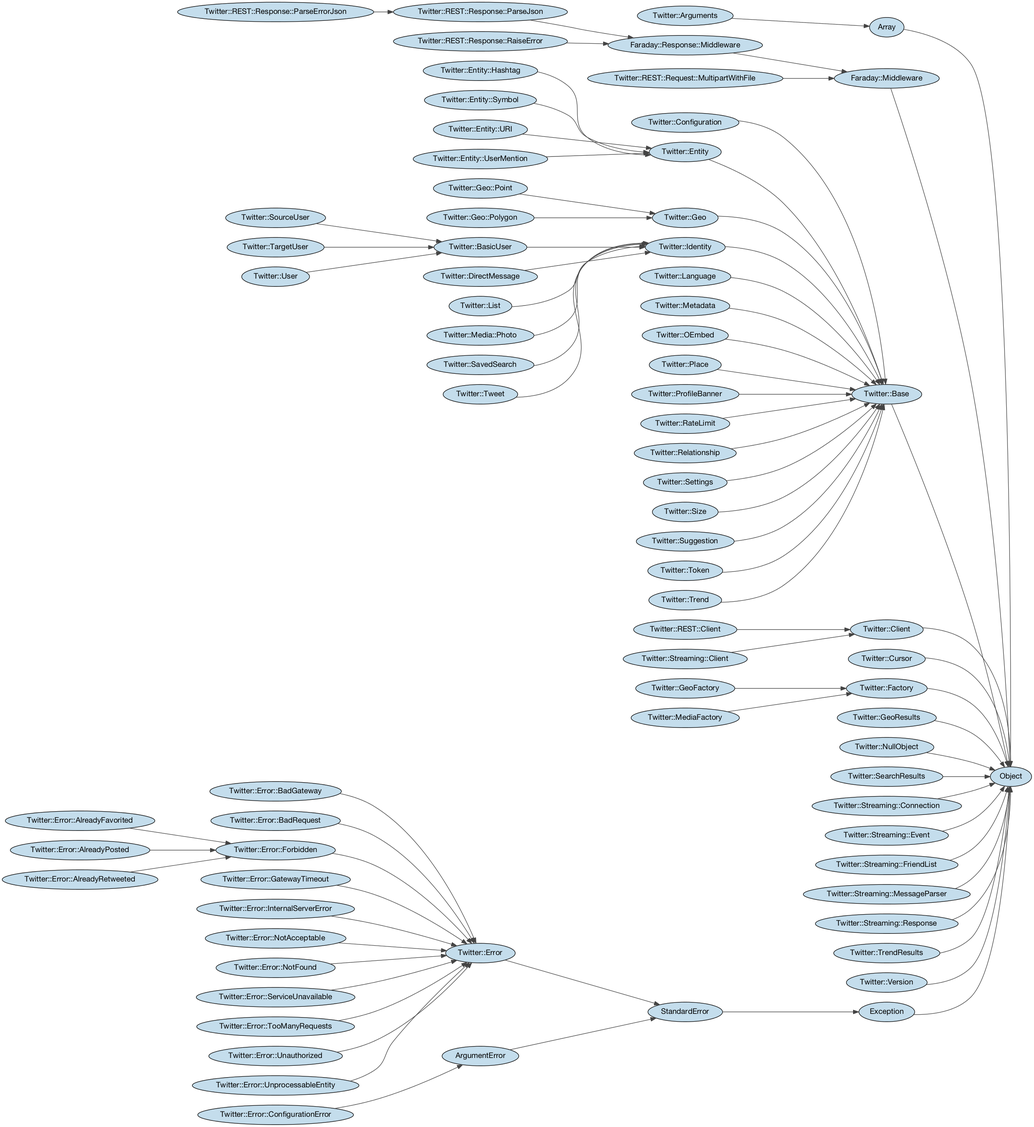
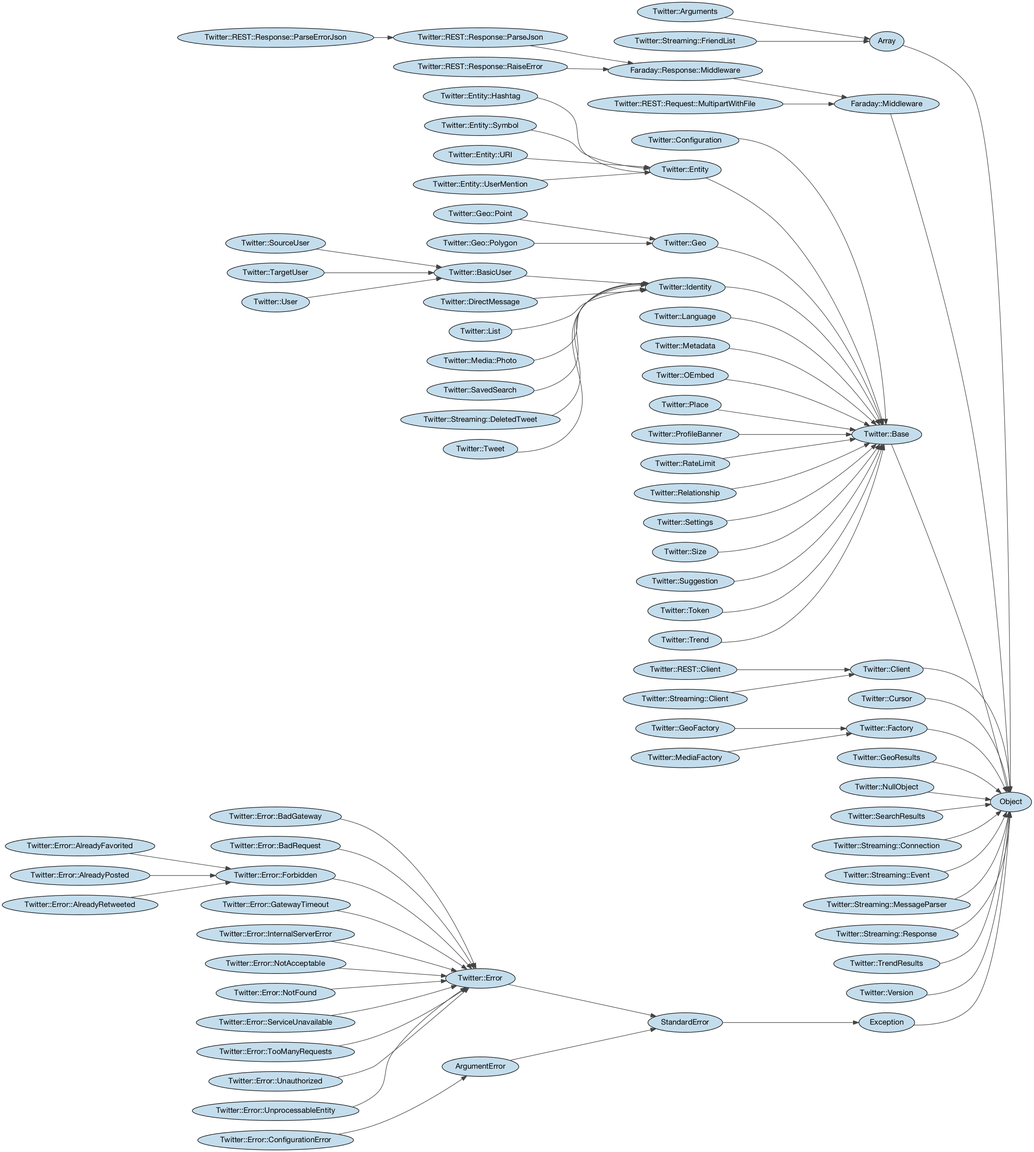
Create separate Twitter::Streaming::DeletedTweet object

diff --git a/spec/twitter/streaming/event_spec.rb b/spec/twitter/streaming/event_spec.rb
@@ -1,13 +1,14 @@
 require 'helper'
 
 describe Twitter::Streaming::Event do
+
   describe "#initialize" do
     before(:each) do
-      @data = {:event=>"follow", :source=>{:id=>10083602, :id_str=>"10083602", :name=>"Adam Bird", :screen_name=>"adambird", :location=>"Nottingham, UK", :url=>"http://t.co/M1eaIKDQyz", :description=>"CEO @onediaryapp, ex @esendex CTO and co-founder, still cycling", :protected=>false, :followers_count=>1295, :friends_count=>850, :listed_count=>53, :created_at=>"Fri Nov 09 00:35:12 +0000 2007", :favourites_count=>93, :utc_offset=>0, :time_zone=>"London", :geo_enabled=>true, :verified=>false, :statuses_count=>13507, :lang=>"en", :contributors_enabled=>false, :is_translator=>false, :profile_background_color=>"C0DEED", :profile_background_image_url=>"http://abs.twimg.com/images/themes/theme1/bg.png", :profile_background_image_url_https=>"https://abs.twimg.com/images/themes/theme1/bg.png", :profile_background_tile=>false, :profile_image_url=>"http://pbs.twimg.com/profile_images/378800000477232297/23d85bb78f71534eea1e1133fb771f86_normal.jpeg", :profile_image_url_https=>"https://pbs.twimg.com/profile_images/378800000477232297/23d85bb78f71534eea1e1133fb771f86_normal.jpeg", :profile_link_color=>"0084B4", :profile_sidebar_border_color=>"C0DEED", :profile_sidebar_fill_color=>"DDEEF6", :profile_text_color=>"333333", :profile_use_background_image=>true, :default_profile=>true, :default_profile_image=>false, :following=>false, :follow_request_sent=>false, :notifications=>false}, :target=>{:id=>1292911088, :id_str=>"1292911088", :name=>"One Diary Bot", :screen_name=>"onediarybot", :location=>nil, :url=>"http://t.co/etHGc0xHX4", :description=>"I'm the One Diary bot, here to help you with your life including personal cycling weather forecasts.", :protected=>false, :followers_count=>123, :friends_count=>157, :listed_count=>1, :created_at=>"Sat Mar 23 23:52:18 +0000 2013", :favourites_count=>0, :utc_offset=>nil, :time_zone=>nil, :geo_enabled=>false, :verified=>false, :statuses_count=>9637, :lang=>"en", :contributors_enabled=>false, :is_translator=>false, :profile_background_color=>"C0DEED", :profile_background_image_url=>"http://abs.twimg.com/images/themes/theme1/bg.png", :profile_background_image_url_https=>"https://abs.twimg.com/images/themes/theme1/bg.png", :profile_background_tile=>false, :profile_image_url=>"http://pbs.twimg.com/profile_images/3651575369/090551d8dd92080198f707769239ff43_normal.jpeg", :profile_image_url_https=>"https://pbs.twimg.com/profile_images/3651575369/090551d8dd92080198f707769239ff43_normal.jpeg", :profile_link_color=>"0084B4", :profile_sidebar_border_color=>"C0DEED", :profile_sidebar_fill_color=>"DDEEF6", :profile_text_color=>"333333", :profile_use_background_image=>true, :default_profile=>true, :default_profile_image=>false, :following=>false, :follow_request_sent=>false, :notifications=>false}, :created_at=>"Sun Oct 27 20:44:19 +0000 2013"}
+      @data = {:event => "follow", :source => {:id => 10083602, :id_str => "10083602", :name => "Adam Bird", :screen_name => "adambird", :location => "Nottingham, UK", :url => "http://t.co/M1eaIKDQyz", :description => "CEO @onediaryapp, ex @esendex CTO and co-founder, still cycling", :protected => false, :followers_count => 1295, :friends_count => 850, :listed_count => 53, :created_at => "Fri Nov 09 00:35:12 +0000 2007", :favourites_count => 93, :utc_offset => 0, :time_zone => "London", :geo_enabled => true, :verified => false, :statuses_count => 13507, :lang => "en", :contributors_enabled => false, :is_translator => false, :profile_background_color => "C0DEED", :profile_background_image_url => "http://abs.twimg.com/images/themes/theme1/bg.png", :profile_background_image_url_https => "https://abs.twimg.com/images/themes/theme1/bg.png", :profile_background_tile => false, :profile_image_url => "http://pbs.twimg.com/profile_images/378800000477232297/23d85bb78f71534eea1e1133fb771f86_normal.jpeg", :profile_image_url_https => "https://pbs.twimg.com/profile_images/378800000477232297/23d85bb78f71534eea1e1133fb771f86_normal.jpeg", :profile_link_color => "0084B4", :profile_sidebar_border_color => "C0DEED", :profile_sidebar_fill_color => "DDEEF6", :profile_text_color => "333333", :profile_use_background_image => true, :default_profile => true, :default_profile_image => false, :following => false, :follow_request_sent => false, :notifications => false}, :target => {:id => 1292911088, :id_str => "1292911088", :name => "One Diary Bot", :screen_name => "onediarybot", :location => nil, :url => "http://t.co/etHGc0xHX4", :description => "I'm the One Diary bot, here to help you with your life including personal cycling weather forecasts.", :protected => false, :followers_count => 123, :friends_count => 157, :listed_count => 1, :created_at => "Sat Mar 23 23:52:18 +0000 2013", :favourites_count => 0, :utc_offset => nil, :time_zone => nil, :geo_enabled => false, :verified => false, :statuses_count => 9637, :lang => "en", :contributors_enabled => false, :is_translator => false, :profile_background_color => "C0DEED", :profile_background_image_url => "http://abs.twimg.com/images/themes/theme1/bg.png", :profile_background_image_url_https => "https://abs.twimg.com/images/themes/theme1/bg.png", :profile_background_tile => false, :profile_image_url => "http://pbs.twimg.com/profile_images/3651575369/090551d8dd92080198f707769239ff43_normal.jpeg", :profile_image_url_https => "https://pbs.twimg.com/profile_images/3651575369/090551d8dd92080198f707769239ff43_normal.jpeg", :profile_link_color => "0084B4", :profile_sidebar_border_color => "C0DEED", :profile_sidebar_fill_color => "DDEEF6", :profile_text_color => "333333", :profile_use_background_image => true, :default_profile => true, :default_profile_image => false, :following => false, :follow_request_sent => false, :notifications => false}, :created_at => "Sun Oct 27 20:44:19 +0000 2013"}
     end
-
-    subject { Twitter::Streaming::Event.new(@data) }
-
+    subject do
+      Twitter::Streaming::Event.new(@data)
+    end
     it "should set the name to be a symbolised version of string string" do
       expect(subject.name).to eq(:follow)
     end
@@ -19,27 +20,24 @@ describe Twitter::Streaming::Event do
       expect(subject.target).to be_a(Twitter::User)
       expect(subject.target.id).to eq(1292911088)
     end
-
     context "when target object is a list" do
       before(:each) do
-        @data = {:event=>"list_member_added", :target_object=>{:full_name=>"@adambird/lists/dev", :user=>{:default_profile_image=>false, :profile_text_color=>"333333", :created_at=>"Fri Nov 09 00:35:12 +0000 2007", :is_translator=>false, :name=>"Adam Bird", :screen_name=>"adambird", :geo_enabled=>true, :follow_request_sent=>false, :profile_sidebar_border_color=>"C0DEED", :default_profile=>true, :id=>10083602, :contributors_enabled=>false, :followers_count=>1295, :lang=>"en", :profile_background_tile=>false, :url=>"http://about.me/adambird", :profile_sidebar_fill_color=>"DDEEF6", :listed_count=>53, :utc_offset=>0, :location=>"Nottingham, UK", :time_zone=>"London", :profile_background_color=>"C0DEED", :following=>false, :protected=>false, :description=>"CEO @onediaryapp, ex @esendex CTO and co-founder, still cycling", :profile_image_url_https=>"https://pbs.twimg.com/profile_images/378800000477232297/23d85bb78f71534eea1e1133fb771f86_normal.jpeg", :profile_background_image_url=>"http://abs.twimg.com/images/themes/theme1/bg.png", :profile_link_color=>"0084B4", :notifications=>false, :profile_background_image_url_https=>"https://abs.twimg.com/images/themes/theme1/bg.png", :favourites_count=>93, :id_str=>"10083602", :statuses_count=>13507, :verified=>false, :profile_image_url=>"http://pbs.twimg.com/profile_images/378800000477232297/23d85bb78f71534eea1e1133fb771f86_normal.jpeg", :profile_use_background_image=>true, :friends_count=>851}, :uri=>"/adambird/lists/dev", :subscriber_count=>0, :id_str=>"60314359", :created_at=>"Sun Dec 04 19:54:20 +0000 2011", :id=>60314359, :following=>false, :mode=>"public", :member_count=>13, :description=>"", :slug=>"dev", :name=>"dev"}, :source=>{:default_profile_image=>false, :profile_text_color=>"333333", :created_at=>"Fri Nov 09 00:35:12 +0000 2007", :is_translator=>false, :name=>"Adam Bird", :screen_name=>"adambird", :geo_enabled=>true, :follow_request_sent=>false, :profile_sidebar_border_color=>"C0DEED", :default_profile=>true, :id=>10083602, :contributors_enabled=>false, :followers_count=>1295, :lang=>"en", :profile_background_tile=>false, :url=>"http://about.me/adambird", :profile_sidebar_fill_color=>"DDEEF6", :listed_count=>53, :utc_offset=>0, :location=>"Nottingham, UK", :time_zone=>"London", :profile_background_color=>"C0DEED", :following=>false, :protected=>false, :description=>"CEO @onediaryapp, ex @esendex CTO and co-founder, still cycling", :profile_image_url_https=>"https://pbs.twimg.com/profile_images/378800000477232297/23d85bb78f71534eea1e1133fb771f86_normal.jpeg", :profile_background_image_url=>"http://abs.twimg.com/images/themes/theme1/bg.png", :profile_link_color=>"0084B4", :notifications=>false, :profile_background_image_url_https=>"https://abs.twimg.com/images/themes/theme1/bg.png", :favourites_count=>93, :id_str=>"10083602", :statuses_count=>13507, :verified=>false, :profile_image_url=>"http://pbs.twimg.com/profile_images/378800000477232297/23d85bb78f71534eea1e1133fb771f86_normal.jpeg", :profile_use_background_image=>true, :friends_count=>851}, :created_at=>"Sun Oct 27 20:54:51 +0000 2013", :target=>{:default_profile_image=>false, :profile_text_color=>"333333", :created_at=>"Sat Mar 23 23:52:18 +0000 2013", :is_translator=>false, :name=>"One Diary Bot", :screen_name=>"onediarybot", :geo_enabled=>false, :follow_request_sent=>false, :profile_sidebar_border_color=>"C0DEED", :default_profile=>true, :id=>1292911088, :contributors_enabled=>false, :followers_count=>124, :lang=>"en", :profile_background_tile=>false, :url=>"http://www.onediary.com", :profile_sidebar_fill_color=>"DDEEF6", :listed_count=>2, :utc_offset=>nil, :location=>nil, :time_zone=>nil, :profile_background_color=>"C0DEED", :following=>true, :protected=>false, :description=>"I'm the One Diary bot, here to help you with your life including personal cycling weather forecasts.", :profile_image_url_https=>"https://pbs.twimg.com/profile_images/3651575369/090551d8dd92080198f707769239ff43_normal.jpeg", :profile_background_image_url=>"http://abs.twimg.com/images/themes/theme1/bg.png", :profile_link_color=>"0084B4", :notifications=>false, :profile_background_image_url_https=>"https://abs.twimg.com/images/themes/theme1/bg.png", :favourites_count=>0, :id_str=>"1292911088", :statuses_count=>9637, :verified=>false, :profile_image_url=>"http://pbs.twimg.com/profile_images/3651575369/090551d8dd92080198f707769239ff43_normal.jpeg", :profile_use_background_image=>true, :friends_count=>157}}
+        @data = {:event => "list_member_added", :target_object => {:full_name => "@adambird/lists/dev", :user => {:default_profile_image => false, :profile_text_color => "333333", :created_at => "Fri Nov 09 00:35:12 +0000 2007", :is_translator => false, :name => "Adam Bird", :screen_name => "adambird", :geo_enabled => true, :follow_request_sent => false, :profile_sidebar_border_color => "C0DEED", :default_profile => true, :id => 10083602, :contributors_enabled => false, :followers_count => 1295, :lang => "en", :profile_background_tile => false, :url => "http://about.me/adambird", :profile_sidebar_fill_color => "DDEEF6", :listed_count => 53, :utc_offset => 0, :location => "Nottingham, UK", :time_zone => "London", :profile_background_color => "C0DEED", :following => false, :protected => false, :description => "CEO @onediaryapp, ex @esendex CTO and co-founder, still cycling", :profile_image_url_https => "https://pbs.twimg.com/profile_images/378800000477232297/23d85bb78f71534eea1e1133fb771f86_normal.jpeg", :profile_background_image_url => "http://abs.twimg.com/images/themes/theme1/bg.png", :profile_link_color => "0084B4", :notifications => false, :profile_background_image_url_https => "https://abs.twimg.com/images/themes/theme1/bg.png", :favourites_count => 93, :id_str => "10083602", :statuses_count => 13507, :verified => false, :profile_image_url => "http://pbs.twimg.com/profile_images/378800000477232297/23d85bb78f71534eea1e1133fb771f86_normal.jpeg", :profile_use_background_image => true, :friends_count => 851}, :uri => "/adambird/lists/dev", :subscriber_count => 0, :id_str => "60314359", :created_at => "Sun Dec 04 19:54:20 +0000 2011", :id => 60314359, :following => false, :mode => "public", :member_count => 13, :description => "", :slug => "dev", :name => "dev"}, :source => {:default_profile_image => false, :profile_text_color => "333333", :created_at => "Fri Nov 09 00:35:12 +0000 2007", :is_translator => false, :name => "Adam Bird", :screen_name => "adambird", :geo_enabled => true, :follow_request_sent => false, :profile_sidebar_border_color => "C0DEED", :default_profile => true, :id => 10083602, :contributors_enabled => false, :followers_count => 1295, :lang => "en", :profile_background_tile => false, :url => "http://about.me/adambird", :profile_sidebar_fill_color => "DDEEF6", :listed_count => 53, :utc_offset => 0, :location => "Nottingham, UK", :time_zone => "London", :profile_background_color => "C0DEED", :following => false, :protected => false, :description => "CEO @onediaryapp, ex @esendex CTO and co-founder, still cycling", :profile_image_url_https => "https://pbs.twimg.com/profile_images/378800000477232297/23d85bb78f71534eea1e1133fb771f86_normal.jpeg", :profile_background_image_url => "http://abs.twimg.com/images/themes/theme1/bg.png", :profile_link_color => "0084B4", :notifications => false, :profile_background_image_url_https => "https://abs.twimg.com/images/themes/theme1/bg.png", :favourites_count => 93, :id_str => "10083602", :statuses_count => 13507, :verified => false, :profile_image_url => "http://pbs.twimg.com/profile_images/378800000477232297/23d85bb78f71534eea1e1133fb771f86_normal.jpeg", :profile_use_background_image => true, :friends_count => 851}, :created_at => "Sun Oct 27 20:54:51 +0000 2013", :target => {:default_profile_image => false, :profile_text_color => "333333", :created_at => "Sat Mar 23 23:52:18 +0000 2013", :is_translator => false, :name => "One Diary Bot", :screen_name => "onediarybot", :geo_enabled => false, :follow_request_sent => false, :profile_sidebar_border_color => "C0DEED", :default_profile => true, :id => 1292911088, :contributors_enabled => false, :followers_count => 124, :lang => "en", :profile_background_tile => false, :url => "http://www.onediary.com", :profile_sidebar_fill_color => "DDEEF6", :listed_count => 2, :utc_offset => nil, :location => nil, :time_zone => nil, :profile_background_color => "C0DEED", :following => true, :protected => false, :description => "I'm the One Diary bot, here to help you with your life including personal cycling weather forecasts.", :profile_image_url_https => "https://pbs.twimg.com/profile_images/3651575369/090551d8dd92080198f707769239ff43_normal.jpeg", :profile_background_image_url => "http://abs.twimg.com/images/themes/theme1/bg.png", :profile_link_color => "0084B4", :notifications => false, :profile_background_image_url_https => "https://abs.twimg.com/images/themes/theme1/bg.png", :favourites_count => 0, :id_str => "1292911088", :statuses_count => 9637, :verified => false, :profile_image_url => "http://pbs.twimg.com/profile_images/3651575369/090551d8dd92080198f707769239ff43_normal.jpeg", :profile_use_background_image => true, :friends_count => 157}}
       end
-
       it "should have the list object as the target object" do
         expect(subject.target_object).to be_a(Twitter::List)
         expect(subject.target_object.full_name).to eq("@adambird/lists/dev")
       end
     end
-
     context "when target object is a tweet" do
       before(:each) do
-        @data = {:event=>"favorite", :target_object=>{:in_reply_to_status_id=>394341960603172864, :favorited=>true, :entities=>{:hashtags=>[], :urls=>[], :user_mentions=>[{:screen_name=>"darrenliddell", :id_str=>"18845675", :id=>18845675, :indices=>[0, 14], :name=>"Darren Liddell"}]}, :user=>{:default_profile_image=>false, :profile_text_color=>"333333", :created_at=>"Sat Mar 23 23:52:18 +0000 2013", :is_translator=>false, :name=>"One Diary Bot", :screen_name=>"onediarybot", :geo_enabled=>false, :follow_request_sent=>false, :profile_sidebar_border_color=>"C0DEED", :default_profile=>true, :id=>1292911088, :contributors_enabled=>false, :followers_count=>124, :lang=>"en", :profile_background_tile=>false, :url=>"http://www.onediary.com", :profile_sidebar_fill_color=>"DDEEF6", :listed_count=>1, :utc_offset=>nil, :location=>nil, :time_zone=>nil, :profile_background_color=>"C0DEED", :following=>true, :protected=>false, :description=>"I'm the One Diary bot, here to help you with your life including personal cycling weather forecasts.", :profile_background_image_url=>"http://abs.twimg.com/images/themes/theme1/bg.png", :profile_link_color=>"0084B4", :notifications=>false, :profile_background_image_url_https=>"https://abs.twimg.com/images/themes/theme1/bg.png", :favourites_count=>0, :id_str=>"1292911088", :statuses_count=>9637, :verified=>false, :profile_image_url=>"http://pbs.twimg.com/profile_images/3651575369/090551d8dd92080198f707769239ff43_normal.jpeg", :profile_use_background_image=>true, :profile_image_url_https=>"https://pbs.twimg.com/profile_images/3651575369/090551d8dd92080198f707769239ff43_normal.jpeg", :friends_count=>157}, :in_reply_to_screen_name=>"darrenliddell", :place=>nil, :coordinates=>nil, :id_str=>"394454214132256768", :source=>"web", :retweet_count=>0, :id=>394454214132256768, :created_at=>"Sun Oct 27 13:23:07 +0000 2013", :in_reply_to_status_id_str=>"394341960603172864", :retweeted=>false, :in_reply_to_user_id=>18845675, :truncated=>false, :contributors=>nil, :geo=>nil, :in_reply_to_user_id_str=>"18845675", :text=>"@darrenliddell my programmers thought that they had that one covered. I have admonished them."}, :source=>{:default_profile_image=>false, :profile_text_color=>"333333", :created_at=>"Fri Nov 09 00:35:12 +0000 2007", :is_translator=>false, :name=>"Adam Bird", :screen_name=>"adambird", :geo_enabled=>true, :follow_request_sent=>false, :profile_sidebar_border_color=>"C0DEED", :default_profile=>true, :id=>10083602, :contributors_enabled=>false, :followers_count=>1295, :lang=>"en", :profile_background_tile=>false, :url=>"http://about.me/adambird", :profile_sidebar_fill_color=>"DDEEF6", :listed_count=>53, :utc_offset=>0, :location=>"Nottingham, UK", :time_zone=>"London", :profile_background_color=>"C0DEED", :following=>false, :protected=>false, :description=>"CEO @onediaryapp, ex @esendex CTO and co-founder, still cycling", :profile_background_image_url=>"http://abs.twimg.com/images/themes/theme1/bg.png", :profile_link_color=>"0084B4", :notifications=>false, :profile_background_image_url_https=>"https://abs.twimg.com/images/themes/theme1/bg.png", :favourites_count=>93, :id_str=>"10083602", :statuses_count=>13507, :verified=>false, :profile_image_url=>"http://pbs.twimg.com/profile_images/378800000477232297/23d85bb78f71534eea1e1133fb771f86_normal.jpeg", :profile_use_background_image=>true, :profile_image_url_https=>"https://pbs.twimg.com/profile_images/378800000477232297/23d85bb78f71534eea1e1133fb771f86_normal.jpeg", :friends_count=>851}, :created_at=>"Sun Oct 27 21:05:35 +0000 2013", :target=>{:default_profile_image=>false, :profile_text_color=>"333333", :created_at=>"Sat Mar 23 23:52:18 +0000 2013", :is_translator=>false, :name=>"One Diary Bot", :screen_name=>"onediarybot", :geo_enabled=>false, :follow_request_sent=>false, :profile_sidebar_border_color=>"C0DEED", :default_profile=>true, :id=>1292911088, :contributors_enabled=>false, :followers_count=>124, :lang=>"en", :profile_background_tile=>false, :url=>"http://www.onediary.com", :profile_sidebar_fill_color=>"DDEEF6", :listed_count=>1, :utc_offset=>nil, :location=>nil, :time_zone=>nil, :profile_background_color=>"C0DEED", :following=>true, :protected=>false, :description=>"I'm the One Diary bot, here to help you with your life including personal cycling weather forecasts.", :profile_background_image_url=>"http://abs.twimg.com/images/themes/theme1/bg.png", :profile_link_color=>"0084B4", :notifications=>false, :profile_background_image_url_https=>"https://abs.twimg.com/images/themes/theme1/bg.png", :favourites_count=>0, :id_str=>"1292911088", :statuses_count=>9637, :verified=>false, :profile_image_url=>"http://pbs.twimg.com/profile_images/3651575369/090551d8dd92080198f707769239ff43_normal.jpeg", :profile_use_background_image=>true, :profile_image_url_https=>"https://pbs.twimg.com/profile_images/3651575369/090551d8dd92080198f707769239ff43_normal.jpeg", :friends_count=>157}}
+        @data = {:event => "favorite", :target_object => {:in_reply_to_status_id => 394341960603172864, :favorited => true, :entities => {:hashtags => [], :urls => [], :user_mentions => [{:screen_name => "darrenliddell", :id_str => "18845675", :id => 18845675, :indices => [0, 14], :name => "Darren Liddell"}]}, :user => {:default_profile_image => false, :profile_text_color => "333333", :created_at => "Sat Mar 23 23:52:18 +0000 2013", :is_translator => false, :name => "One Diary Bot", :screen_name => "onediarybot", :geo_enabled => false, :follow_request_sent => false, :profile_sidebar_border_color => "C0DEED", :default_profile => true, :id => 1292911088, :contributors_enabled => false, :followers_count => 124, :lang => "en", :profile_background_tile => false, :url => "http://www.onediary.com", :profile_sidebar_fill_color => "DDEEF6", :listed_count => 1, :utc_offset => nil, :location => nil, :time_zone => nil, :profile_background_color => "C0DEED", :following => true, :protected => false, :description => "I'm the One Diary bot, here to help you with your life including personal cycling weather forecasts.", :profile_background_image_url => "http://abs.twimg.com/images/themes/theme1/bg.png", :profile_link_color => "0084B4", :notifications => false, :profile_background_image_url_https => "https://abs.twimg.com/images/themes/theme1/bg.png", :favourites_count => 0, :id_str => "1292911088", :statuses_count => 9637, :verified => false, :profile_image_url => "http://pbs.twimg.com/profile_images/3651575369/090551d8dd92080198f707769239ff43_normal.jpeg", :profile_use_background_image => true, :profile_image_url_https => "https://pbs.twimg.com/profile_images/3651575369/090551d8dd92080198f707769239ff43_normal.jpeg", :friends_count => 157}, :in_reply_to_screen_name => "darrenliddell", :place => nil, :coordinates => nil, :id_str => "394454214132256768", :source => "web", :retweet_count => 0, :id => 394454214132256768, :created_at => "Sun Oct 27 13:23:07 +0000 2013", :in_reply_to_status_id_str => "394341960603172864", :retweeted => false, :in_reply_to_user_id => 18845675, :truncated => false, :contributors => nil, :geo => nil, :in_reply_to_user_id_str => "18845675", :text => "@darrenliddell my programmers thought that they had that one covered. I have admonished them."}, :source => {:default_profile_image => false, :profile_text_color => "333333", :created_at => "Fri Nov 09 00:35:12 +0000 2007", :is_translator => false, :name => "Adam Bird", :screen_name => "adambird", :geo_enabled => true, :follow_request_sent => false, :profile_sidebar_border_color => "C0DEED", :default_profile => true, :id => 10083602, :contributors_enabled => false, :followers_count => 1295, :lang => "en", :profile_background_tile => false, :url => "http://about.me/adambird", :profile_sidebar_fill_color => "DDEEF6", :listed_count => 53, :utc_offset => 0, :location => "Nottingham, UK", :time_zone => "London", :profile_background_color => "C0DEED", :following => false, :protected => false, :description => "CEO @onediaryapp, ex @esendex CTO and co-founder, still cycling", :profile_background_image_url => "http://abs.twimg.com/images/themes/theme1/bg.png", :profile_link_color => "0084B4", :notifications => false, :profile_background_image_url_https => "https://abs.twimg.com/images/themes/theme1/bg.png", :favourites_count => 93, :id_str => "10083602", :statuses_count => 13507, :verified => false, :profile_image_url => "http://pbs.twimg.com/profile_images/378800000477232297/23d85bb78f71534eea1e1133fb771f86_normal.jpeg", :profile_use_background_image => true, :profile_image_url_https => "https://pbs.twimg.com/profile_images/378800000477232297/23d85bb78f71534eea1e1133fb771f86_normal.jpeg", :friends_count => 851}, :created_at => "Sun Oct 27 21:05:35 +0000 2013", :target => {:default_profile_image => false, :profile_text_color => "333333", :created_at => "Sat Mar 23 23:52:18 +0000 2013", :is_translator => false, :name => "One Diary Bot", :screen_name => "onediarybot", :geo_enabled => false, :follow_request_sent => false, :profile_sidebar_border_color => "C0DEED", :default_profile => true, :id => 1292911088, :contributors_enabled => false, :followers_count => 124, :lang => "en", :profile_background_tile => false, :url => "http://www.onediary.com", :profile_sidebar_fill_color => "DDEEF6", :listed_count => 1, :utc_offset => nil, :location => nil, :time_zone => nil, :profile_background_color => "C0DEED", :following => true, :protected => false, :description => "I'm the One Diary bot, here to help you with your life including personal cycling weather forecasts.", :profile_background_image_url => "http://abs.twimg.com/images/themes/theme1/bg.png", :profile_link_color => "0084B4", :notifications => false, :profile_background_image_url_https => "https://abs.twimg.com/images/themes/theme1/bg.png", :favourites_count => 0, :id_str => "1292911088", :statuses_count => 9637, :verified => false, :profile_image_url => "http://pbs.twimg.com/profile_images/3651575369/090551d8dd92080198f707769239ff43_normal.jpeg", :profile_use_background_image => true, :profile_image_url_https => "https://pbs.twimg.com/profile_images/3651575369/090551d8dd92080198f707769239ff43_normal.jpeg", :friends_count => 157}}
       end
-
       it "should have the tweet as the target object" do
         expect(subject.target_object).to be_a(Twitter::Tweet)
         expect(subject.target_object.id).to eq(394454214132256768)
       end
     end
   end
+
 end

diff --git a/spec/twitter/streaming/message_parser_spec.rb b/spec/twitter/streaming/message_parser_spec.rb
@@ -1,0 +1,48 @@
+require 'helper'
+
+describe Twitter::Streaming::MessageParser do
+
+  subject do
+    Twitter::Streaming::MessageParser
+  end
+
+  describe ".parse" do
+    it "returns a tweet if the data has an id" do
+      data = {:id => 1}
+      object = subject.parse(data)
+      expect(object).to be_a Twitter::Tweet
+      expect(object.id).to eq(1)
+    end
+    it "returns an event if the data has an event" do
+      data = {:event => "favorite", :source => {:id => 1}, :target => {:id => 2}, :target_object => {:id => 1}}
+      object = subject.parse(data)
+      expect(object).to be_a Twitter::Streaming::Event
+      expect(object.name).to eq(:favorite)
+      expect(object.source).to be_a Twitter::User
+      expect(object.source.id).to eq(1)
+      expect(object.target).to be_a Twitter::User
+      expect(object.target.id).to eq(2)
+      expect(object.target_object).to be_a Twitter::Tweet
+      expect(object.target_object.id).to eq(1)
+    end
+    it "returns a direct message if the data has a direct_message" do
+      data = {:direct_message => {:id => 1}}
+      object = subject.parse(data)
+      expect(object).to be_a Twitter::DirectMessage
+      expect(object.id).to eq(1)
+    end
+    it "returns a friend list if the data has friends" do
+      data = {:friends => [1]}
+      object = subject.parse(data)
+      expect(object).to be_a Twitter::Streaming::FriendList
+      expect(object.first).to eq(1)
+    end
+    it "returns a deleted tweet if the data has a deleted status" do
+      data = {:delete => {:status => {:id => 1}}}
+      object = subject.parse(data)
+      expect(object).to be_a Twitter::Streaming::DeletedTweet
+      expect(object.id).to eq(1)
+    end
+  end
+
+end

diff --git a/lib/twitter/streaming/event.rb b/lib/twitter/streaming/event.rb
@@ -3,26 +3,27 @@ module Twitter
     class Event
 
       LIST_EVENTS = [
-        :list_created, :list_destroyed, :list_updated, :list_member_added, 
-        :list_member_added, :list_member_removed, :list_user_subscribed, 
-        :list_user_subscribed, :list_user_unsubscribed, :list_user_unsubscribed
+        :list_created, :list_destroyed, :list_updated, :list_member_added,
+        :list_member_added, :list_member_removed, :list_user_subscribed,
+        :list_user_subscribed, :list_user_unsubscribed, :list_user_unsubscribed,
       ]
 
       TWEET_EVENTS = [
-        :favorite, :unfavorite
+        :favorite, :unfavorite,
       ]
-        
+
       attr_reader :name, :source, :target, :target_object
 
       # @param data [Hash]
       def initialize(data)
-        @name = data[:event].intern
+        @name = data[:event].to_sym
         @source = Twitter::User.new(data[:source])
         @target = Twitter::User.new(data[:target])
         @target_object = target_object_factory(@name, data[:target_object])
       end
 
     private
+
       def target_object_factory(event_name, data)
         if LIST_EVENTS.include?(event_name)
           Twitter::List.new(data)
@@ -30,6 +31,7 @@ module Twitter
           Twitter::Tweet.new(data)
         end
       end
+
     end
   end
 end

diff --git a/spec/twitter/streaming/client_spec.rb b/spec/twitter/streaming/client_spec.rb
@@ -9,7 +9,6 @@ describe Twitter::Streaming::Client do
     def initialize(body)
       @body = body
     end
-
     def stream(request, response)
       @body.each_line do |line|
         response.on_body(line)
@@ -80,13 +79,15 @@ describe Twitter::Streaming::Client do
     end
     expect(items.size).to eq(5)
     expect(items[0]).to be_a Twitter::Streaming::FriendList
-    expect(items[0].friend_ids).to eq([488736931,311444249])
+    expect(items[0]).to eq([488736931,311444249])
     expect(items[1]).to be_a Twitter::Tweet
-    expect(items[1].text).to eq "The problem with your code is that it's doing exactly what you told it to do."
-    expect(items[3]).to be_a Twitter::DirectMessage
-    expect(items[3].text).to eq "hello bot"
-    expect(items[4]).to be_a Twitter::Streaming::Event
-    expect(items[4].name).to be(:follow)
+    expect(items[1].text).to eq("The problem with your code is that it's doing exactly what you told it to do.")
+    expect(items[2]).to be_a Twitter::DirectMessage
+    expect(items[2].text).to eq("hello bot")
+    expect(items[3]).to be_a Twitter::Streaming::Event
+    expect(items[3].name).to eq(:follow)
+    expect(items[4]).to be_a Twitter::Streaming::DeletedTweet
+    expect(items[4].id).to eq(272691609211117568)
   end
 
 end

diff --git a/spec/twitter/streaming/deleted_tweet_spec.rb b/spec/twitter/streaming/deleted_tweet_spec.rb
@@ -1,0 +1,30 @@
+require 'helper'
+
+describe Twitter::Streaming::DeletedTweet do
+
+  describe "#==" do
+    it "returns true when objects IDs are the same" do
+      deleted_tweet = Twitter::Streaming::DeletedTweet.new(:id => 1)
+      other = Twitter::Streaming::DeletedTweet.new(:id => 1)
+      expect(deleted_tweet == other).to be true
+    end
+    it "returns false when objects IDs are different" do
+      deleted_tweet = Twitter::Streaming::DeletedTweet.new(:id => 1)
+      other = Twitter::Streaming::DeletedTweet.new(:id => 2)
+      expect(deleted_tweet == other).to be false
+    end
+    it "returns false when classes are different" do
+      deleted_tweet = Twitter::Streaming::DeletedTweet.new(:id => 1)
+      other = Twitter::Identity.new(:id => 1)
+      expect(deleted_tweet == other).to be false
+    end
+  end
+
+  describe "#user_id" do
+    it "returns the user ID" do
+      deleted_tweet = Twitter::Streaming::DeletedTweet.new(:id => 1, :user_id => 1)
+      expect(deleted_tweet.user_id).to eq(1)
+    end
+  end
+
+end

diff --git a/spec/twitter/tweet_spec.rb b/spec/twitter/tweet_spec.rb
@@ -62,7 +62,6 @@ describe Twitter::Tweet do
       tweet = Twitter::Tweet.new(:id => 28669546014, :entities => {:urls => []})
       expect(tweet.entities?).to be false
     end
-
     it "returns true if there are entities set" do
       urls_array = [
         {
@@ -310,7 +309,6 @@ describe Twitter::Tweet do
       Twitter::Tweet.new(:id => 28669546014).urls
       expect($stderr.string).to match(/To get urls, you must pass `:include_entities => true` when requesting the Twitter::Tweet\./)
     end
-
     it "can handle strange urls" do
       urls_array = [
         {
@@ -326,7 +324,6 @@ describe Twitter::Tweet do
       expect{ uri.expanded_url }.to_not raise_error
       expect{ uri.display_url }.to_not raise_error
     end
-
   end
 
   describe "#uri" do

diff --git a/lib/twitter/tweet.rb b/lib/twitter/tweet.rb
@@ -10,7 +10,6 @@ module Twitter
     alias favoriters_count favorite_count
     alias in_reply_to_tweet_id in_reply_to_status_id
     alias retweeters_count retweet_count
-    attr_reader :deleted
     object_attr_reader :GeoFactory, :geo
     object_attr_reader :Metadata, :metadata
     object_attr_reader :Place, :place
@@ -31,12 +30,6 @@ module Twitter
       @attrs[:filter_level] || "none"
     end
     memoize :filter_level
-    
-    # @note Not a real entity
-    # @return [Boolean]
-    def deleted?
-      deleted == true
-    end
 
     # @return [String]
     # @note May be > 140 characters.

diff --git a/lib/twitter/streaming/message_parser.rb b/lib/twitter/streaming/message_parser.rb
@@ -1,3 +1,9 @@
+require 'twitter/direct_message'
+require 'twitter/streaming/deleted_tweet'
+require 'twitter/streaming/event'
+require 'twitter/streaming/friend_list'
+require 'twitter/tweet'
+
 module Twitter
   module Streaming
     class MessageParser
@@ -13,10 +19,11 @@ module Twitter
           FriendList.new(data[:friends])
         elsif data[:delete]
           if data[:delete][:status]
-            Tweet.new(data[:delete][:status].merge(:deleted => true))
+            DeletedTweet.new(data[:delete][:status])
           end
         end
       end
+
     end
   end
 end

diff --git a/lib/twitter/streaming/client.rb b/lib/twitter/streaming/client.rb
@@ -4,8 +4,6 @@ require 'twitter/client'
 require 'twitter/streaming/connection'
 require 'twitter/streaming/response'
 require 'twitter/streaming/message_parser'
-require 'twitter/streaming/event'
-require 'twitter/streaming/friend_list'
 
 module Twitter
   module Streaming

diff --git a/lib/twitter/streaming/deleted_tweet.rb b/lib/twitter/streaming/deleted_tweet.rb
@@ -1,0 +1,8 @@
+module Twitter
+  module Streaming
+    class DeletedTweet < Twitter::Identity
+      attr_reader :user_id
+    end
+    DeletedStatus = DeletedTweet
+  end
+end
